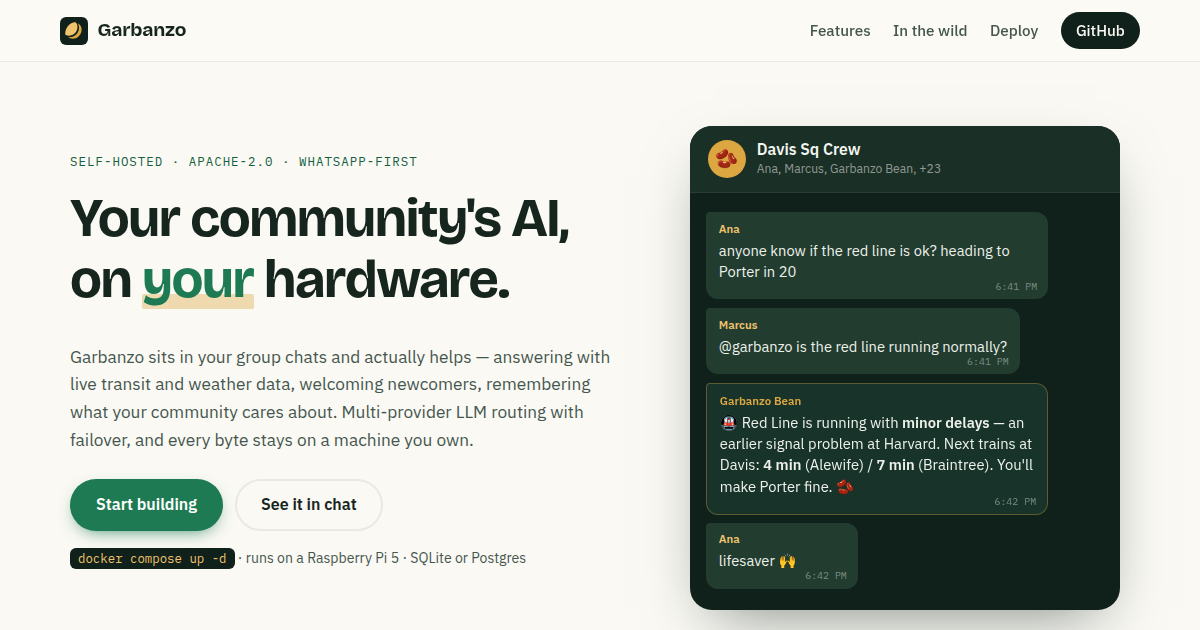
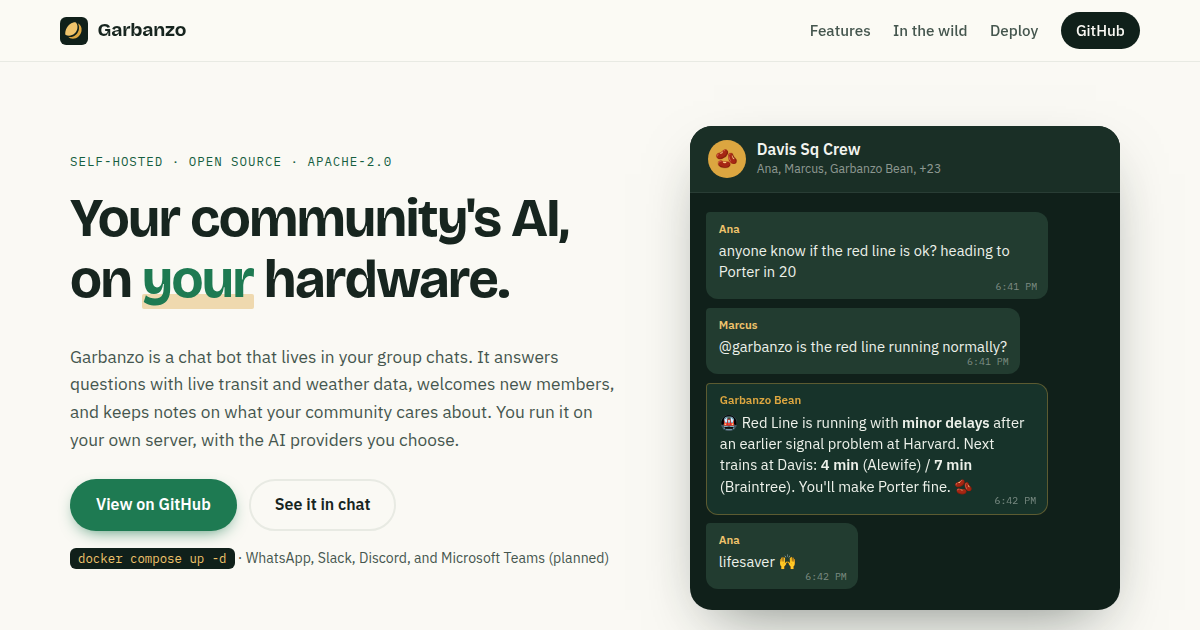
fix(website): remove AI-writing tells and over-specific copy
Copy audit against current published guides on recognizing AI-generated
text (Wikipedia's Signs of AI writing, similar 2025-26 field guides).
Removed every instance of the documented tells:

- em dashes (page had them in nearly every block; now zero)
- negative parallelism ('Real outputs, not mockups' -> 'From a live
  deployment')
- rule-of-three lists ('Your keys, your data, your volumes';
  'answering..., welcoming..., remembering...')
- participial-phrase stacks in the lede -> plain declarative sentences
- quippy unearned metaphors ('Deployed before your coffee cools' ->
  'Set up in a few minutes')
- dramatic flourish ('every byte stays on a machine you own')
- generic CTA ('Start building' -> 'View on GitHub')

Specificity fixes requested in review:
- eyebrow no longer says WhatsApp-first (now Self-hosted / Open source /
  Apache-2.0)
- hero trust line lists the supported platforms (WhatsApp, Slack,
  Discord, Teams planned) instead of Pi 5 / SQLite / Postgres
- provider card names companies only, no model families
- title/meta rewritten in the same plain register

og-card.png regenerated from the new hero.

diff --git a/website/index.html b/website/index.html
@@ -3,22 +3,22 @@
   <head>
     <meta charset="UTF-8" />
     <meta name="viewport" content="width=device-width, initial-scale=1.0" />
-    <title>Garbanzo — your community's AI, on your hardware</title>
+    <title>Garbanzo: a self-hosted chat bot for communities</title>
     <meta
       name="description"
-      content="Garbanzo is a self-hosted AI bot for community group chats. Multi-provider LLM routing, native tool calling, durable community memory, and built-in observability — deployed with one docker compose command."
+      content="Garbanzo is a self-hosted chat bot for group communities on WhatsApp, Slack, and Discord. It answers with live transit and weather data, remembers group facts, and runs from a single docker compose command."
     />
     <link rel="icon" type="image/svg+xml" href="./assets/favicon.svg" />
     <link rel="canonical" href="https://garbanzobot.com/" />
 
     <meta property="og:type" content="website" />
     <meta property="og:url" content="https://garbanzobot.com/" />
-    <meta property="og:title" content="Garbanzo — your community's AI, on your hardware" />
-    <meta property="og:description" content="Self-hosted AI for group chats: LLM routing, tool calling, community memory, and observability. One docker compose command." />
+    <meta property="og:title" content="Garbanzo: a self-hosted chat bot for communities" />
+    <meta property="og:description" content="A chat bot for group communities that you run on your own server. Live data answers, group memory, moderation help, and dashboards." />
     <meta property="og:image" content="https://garbanzobot.com/assets/og-card.png" />
     <meta name="twitter:card" content="summary_large_image" />
-    <meta name="twitter:title" content="Garbanzo — your community's AI, on your hardware" />
-    <meta name="twitter:description" content="Self-hosted AI for group chats: LLM routing, tool calling, community memory, and observability." />
+    <meta name="twitter:title" content="Garbanzo: a self-hosted chat bot for communities" />
+    <meta name="twitter:description" content="A chat bot for group communities that you run on your own server." />
     <meta name="twitter:image" content="https://garbanzobot.com/assets/og-card.png" />
 
     <link rel="preconnect" href="https://fonts.googleapis.com" />
@@ -47,18 +47,18 @@
       <!-- ============ Hero: headline + live chat panel ============ -->
       <section class="hero">
         <div class="hero-copy">
-          <p class="eyebrow">Self-hosted · Apache-2.0 · WhatsApp-first</p>
+          <p class="eyebrow">Self-hosted · Open source · Apache-2.0</p>
           <h1>Your community's AI,<br /> on <em>your</em> hardware.</h1>
           <p class="lede">
-            Garbanzo sits in your group chats and actually helps — answering with live transit and weather data,
-            welcoming newcomers, remembering what your community cares about. Multi-provider LLM routing with
-            failover, and every byte stays on a machine you own.
+            Garbanzo is a chat bot that lives in your group chats. It answers questions with live transit and
+            weather data, welcomes new members, and keeps notes on what your community cares about. You run it
+            on your own server, with the AI providers you choose.
           </p>
           <div class="actions">
-            <a class="button button-primary" href="https://github.com/jjhickman/garbanzo-bot" target="_blank" rel="noreferrer">Start building</a>
+            <a class="button button-primary" href="https://github.com/jjhickman/garbanzo-bot" target="_blank" rel="noreferrer">View on GitHub</a>
             <a class="button button-ghost" href="#gallery">See it in chat</a>
           </div>
-          <p class="trust-line"><code>docker compose up -d</code> · runs on a Raspberry Pi 5 · SQLite or Postgres</p>
+          <p class="trust-line"><code>docker compose up -d</code> · WhatsApp, Slack, Discord, and Microsoft&nbsp;Teams&nbsp;(planned)</p>
         </div>
 
         <div class="chat-panel" role="img" aria-label="Example group chat: a member asks if the Red Line is running, and Garbanzo replies with live MBTA status.">
@@ -83,7 +83,7 @@
             <div class="typing b3" aria-hidden="true"><span></span><span></span><span></span></div>
             <div class="bubble bot b4">
               <span class="bubble-author">Garbanzo Bean</span>
-              🚇 Red Line is running with <strong>minor delays</strong> — an earlier signal problem at Harvard.
+              🚇 Red Line is running with <strong>minor delays</strong> after an earlier signal problem at Harvard.
               Next trains at Davis: <strong>4 min</strong> (Alewife) / <strong>7 min</strong> (Braintree). You'll make Porter fine. 🫘
               <span class="bubble-time">6:42 PM</span>
             </div>
@@ -100,8 +100,8 @@
       <section class="deploy" id="deploy" aria-label="Deployment">
         <div class="deploy-inner">
           <div class="deploy-copy">
-            <h2>Deployed before your coffee cools</h2>
-            <p>Three commands on any Docker host — a Raspberry Pi 5 is plenty. Your keys, your data, your volumes.</p>
+            <h2>Set up in a few minutes</h2>
+            <p>Runs on any Docker host, including a Raspberry Pi. API keys and chat data stay on your machine.</p>
           </div>
           <pre class="deploy-code"><code><span class="c"># 1. configure</span>
 git clone https://github.com/jjhickman/garbanzo-bot.git
@@ -118,56 +118,56 @@ docker compose up -d</code></pre>
           <article class="feature">
             <svg viewBox="0 0 24 24" aria-hidden="true"><path d="M4 6h7M4 12h16M4 18h10" /><circle cx="17" cy="6" r="2.6" /><circle cx="8" cy="18" r="2.6" /></svg>
             <h3>Answers with live data</h3>
-            <p>Native tool calling: ask about transit, weather, venues, news, or books in plain language — the model pulls real data mid-reply. No commands to memorize.</p>
+            <p>Ask about transit, weather, venues, news, or books in plain language. The bot looks the answer up and includes it in the reply, so there is no command syntax to learn.</p>
           </article>
           <article class="feature">
             <svg viewBox="0 0 24 24" aria-hidden="true"><path d="M12 3a7 7 0 0 1 7 7c0 2.5-1.2 4-2.5 5.5-.9 1-1.5 1.7-1.5 3.5h-6c0-1.8-.6-2.5-1.5-3.5C6.2 14 5 12.5 5 10a7 7 0 0 1 7-7z" /><path d="M9.5 22h5" /></svg>
             <h3>Remembers your community</h3>
-            <p>Durable facts — who runs book club, where trivia happens — extracted automatically or curated by you, recalled across every conversation with vector retrieval.</p>
+            <p>The bot keeps notes: who runs book club, where trivia night happens, which park hosts the picnics. You can add facts yourself or let it pick them up from conversation.</p>
           </article>
           <article class="feature">
             <svg viewBox="0 0 24 24" aria-hidden="true"><rect x="3" y="5" width="18" height="15" rx="2" /><path d="M3 9h18M8 3v4M16 3v4M8 14l2.5 2.5L15 12" /></svg>
             <h3>Keeps plans on track</h3>
-            <p>Detects event proposals, enriches them with weather and transit, and nudges the chat before start time. Welcomes intros. Recaps the week for you every Sunday.</p>
+            <p>When someone proposes a meetup, the bot adds weather and transit details, then reminds the chat before it starts. Owners also get a weekly summary on Sundays.</p>
           </article>
           <article class="feature">
             <svg viewBox="0 0 24 24" aria-hidden="true"><path d="M12 3l8 3v6c0 4.5-3.2 7.8-8 9-4.8-1.2-8-4.5-8-9V6z" /><path d="M9 12l2 2 4-4.5" /></svg>
-            <h3>Moderates without drama</h3>
-            <p>Pattern + AI moderation with human-in-the-loop owner alerts, strike tracking, and rate limits. Edits can't dodge it — changed messages get re-checked.</p>
+            <h3>Moderation, human in charge</h3>
+            <p>Flagged messages go to the owner for review instead of triggering automatic punishment. Edited messages get checked again, and repeat problems are tracked per member.</p>
           </article>
           <article class="feature">
             <svg viewBox="0 0 24 24" aria-hidden="true"><path d="M6 4h12v5a6 6 0 0 1-12 0z" /><path d="M18 5h2.5a1 1 0 0 1 1 1.2C21 9 19.5 10.5 18 10.8M6 5H3.5a1 1 0 0 0-1 1.2C3 9 4.5 10.5 6 10.8M12 15v3M8 21h8M9 18h6" /></svg>
             <h3>Routes across providers</h3>
-            <p>OpenAI GPT-5 family, Claude, Gemini, Bedrock, OpenRouter — configurable order with automatic failover, per-provider models, prompt caching, and cost tracking. Optional local Ollama for small talk.</p>
+            <p>Works with OpenAI, Anthropic, Google, AWS Bedrock, and OpenRouter. You pick the order; if one provider fails, the next takes over. Spending is tracked per provider, and you can serve simple replies from a local model through Ollama.</p>
           </article>
           <article class="feature">
             <svg viewBox="0 0 24 24" aria-hidden="true"><path d="M3 20h18" /><path d="M6 20v-6M11 20V9M16 20v-9M21 20V5" /></svg>
             <h3>Shows you everything</h3>
-            <p>A token-gated admin page for spend and activity, Prometheus metrics, and a pre-provisioned Grafana dashboard — one compose profile away, on the same Pi.</p>
+            <p>An admin page shows daily spend and group activity. Prometheus metrics and a ready-made Grafana dashboard start alongside the bot with one extra compose flag.</p>
           </article>
         </div>
       </section>
 
       <!-- ============ Real screenshots ============ -->
       <section class="gallery" id="gallery" aria-label="Real screenshots">
-        <h2>Real outputs, not mockups</h2>
-        <p class="gallery-sub">Straight from a production deployment on WhatsApp.</p>
+        <h2>From a live deployment</h2>
+        <p class="gallery-sub">Screenshots from a WhatsApp community that runs Garbanzo.</p>
         <div class="shots">
           <figure>
             <a href="./assets/screenshots/introductions-welcome.jpg" target="_blank" rel="noreferrer"><img src="./assets/screenshots/introductions-welcome.jpg" alt="Garbanzo writing a personal welcome to a new member's introduction" loading="lazy" /></a>
-            <figcaption>Personal welcomes for every intro</figcaption>
+            <figcaption>Welcoming a new member</figcaption>
           </figure>
           <figure>
             <a href="./assets/screenshots/mbta-alerts.jpg" target="_blank" rel="noreferrer"><img src="./assets/screenshots/mbta-alerts.jpg" alt="Garbanzo reporting live MBTA transit alerts" loading="lazy" /></a>
-            <figcaption>Live transit status on request</figcaption>
+            <figcaption>Answering a transit question</figcaption>
           </figure>
           <figure>
             <a href="./assets/screenshots/weather-report.jpg" target="_blank" rel="noreferrer"><img src="./assets/screenshots/weather-report.jpg" alt="Garbanzo giving a local weather report" loading="lazy" /></a>
-            <figcaption>Local weather for planning</figcaption>
+            <figcaption>A local weather report</figcaption>
           </figure>
           <figure>
             <a href="./assets/screenshots/dnd-character.jpg" target="_blank" rel="noreferrer"><img src="./assets/screenshots/dnd-character.jpg" alt="Garbanzo generating a Dungeons and Dragons character sheet PDF" loading="lazy" /></a>
-            <figcaption>D&amp;D sheets as real PDFs</figcaption>
+            <figcaption>A generated D&amp;D character sheet</figcaption>
           </figure>
         </div>
       </section>
@@ -187,8 +187,7 @@ docker compose up -d</code></pre>
       <section class="support" aria-label="Support the project">
         <h2>Back the roadmap</h2>
         <p>
-          Garbanzo is an independent open-source project. Support funds provider integrations, AI workflow
-          improvements, and reliable releases.
+          Garbanzo is an independent open-source project. Contributions pay for API costs and maintainer time.
         </p>
         <div class="tiers">
           <div class="tier"><h3>Bean Sprout</h3><p>Roadmap updates and supporter shout-outs.</p><span>For individual supporters</span></div>
@@ -204,7 +203,7 @@ docker compose up -d</code></pre>
 
     <footer class="site-footer">
       <div class="footer-inner">
-        <p class="footer-brand">🫘 Garbanzo — built for communities and small teams. Apache-2.0.</p>
+        <p class="footer-brand">🫘 Garbanzo · Apache-2.0</p>
         <nav aria-label="Footer">
           <a href="https://github.com/jjhickman/garbanzo-bot" target="_blank" rel="noreferrer">GitHub</a>
           <a href="https://hub.docker.com/r/jjhickman/garbanzo" target="_blank" rel="noreferrer">Docker Hub</a>